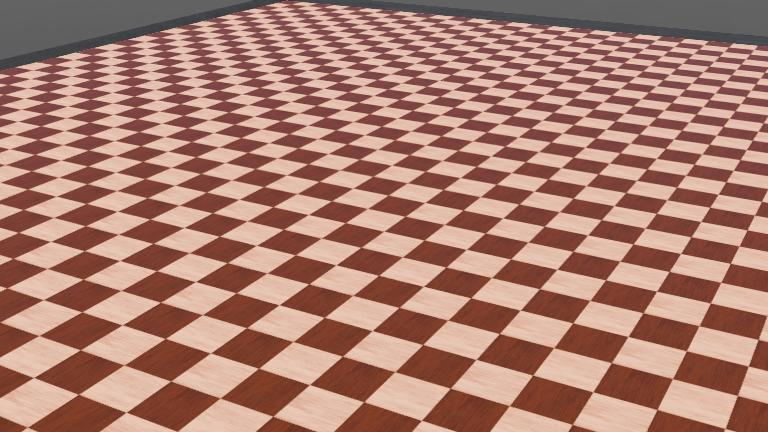
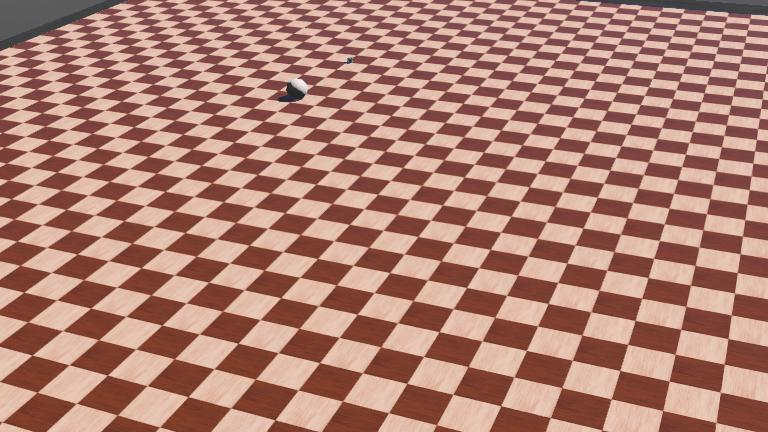
up

diff --git a/robotics/servo/doc/simulation_environment.md b/robotics/servo/doc/simulation_environment.md
@@ -297,3 +297,5 @@ WBTファイルの適用に関する注意点
 
 
 ![1760754101867](image/simulation_environment/1760754101867.png)
+
+![1760754548250](image/simulation_environment/1760754548250.png)
